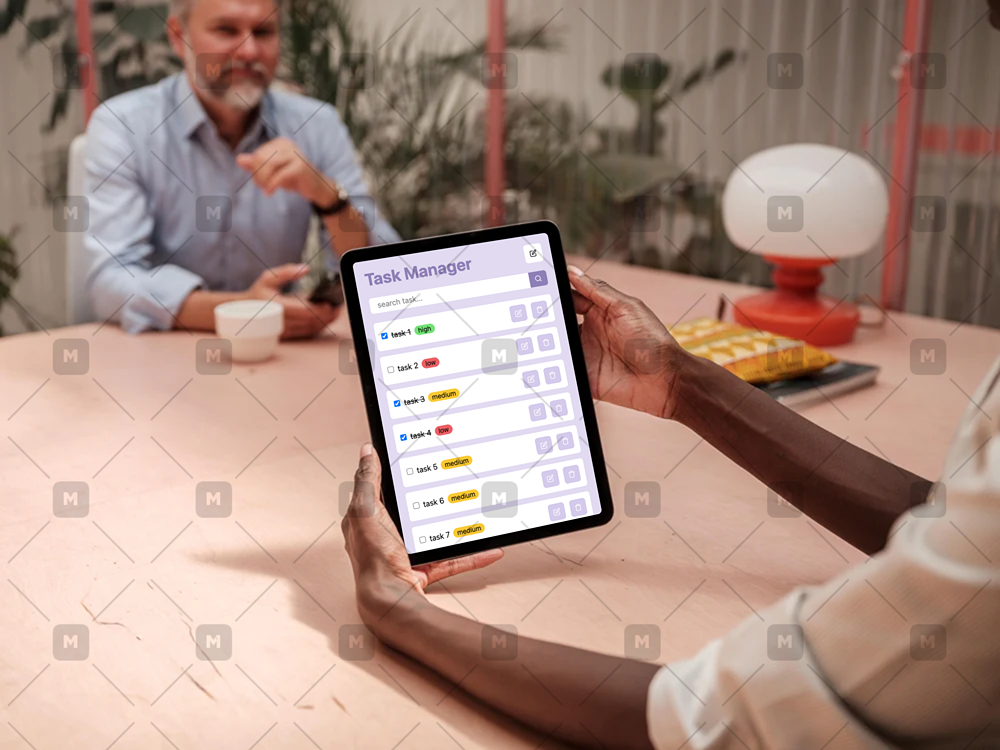
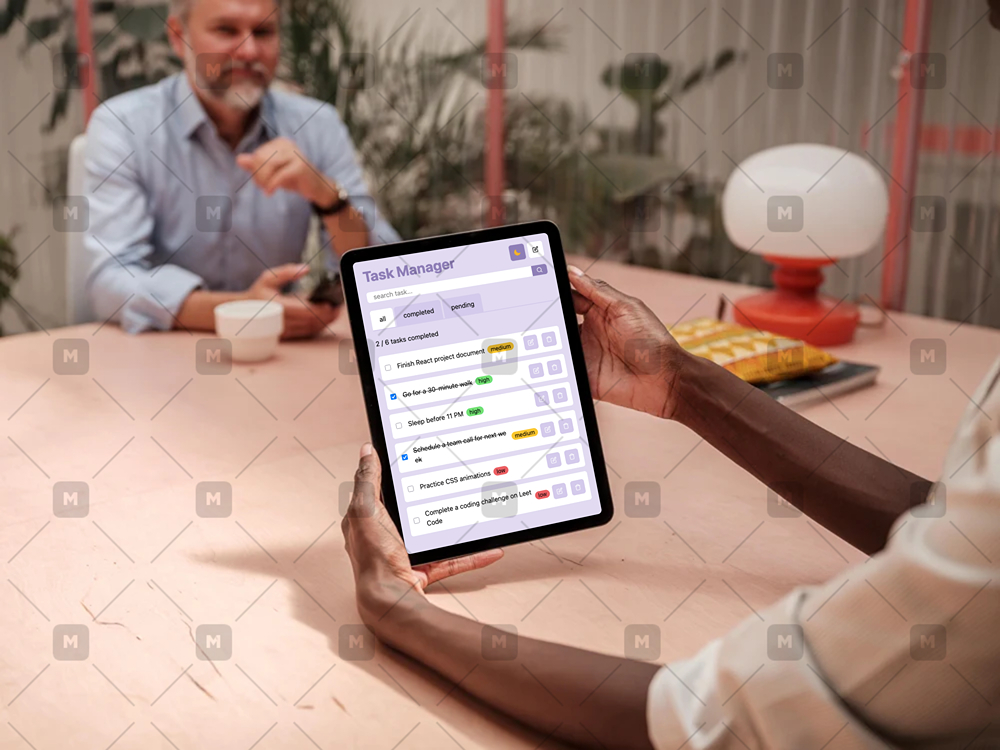
add category

Changed region(s): [[0.341, 0.3067, 0.589, 0.736]]

diff --git a/src/components/Todo.jsx b/src/components/Todo.jsx
@@ -13,11 +13,22 @@ export default function Todo() {
   const { tasks } = useTasksContext();
   const { changeTheme, state } = useAppContext();
   const [query, setQuery] = useState("");
+  const [activeTab, setActiveTab] = useState("all");
   const results = filterTasks(query, tasks);
+
+  const tabs = [
+    { id: "all", label: "all", filter: () => true },
+    { id: "completed", label: "completed", filter: (t) => t.completed },
+    { id: "pending", label: "pending", filter: (t) => !t.completed },
+  ];
+
+  const activeFilter = tabs.find((tab) => tab.id === activeTab).filter;
+  const filterResults = results.filter(activeFilter);
 
   return (
     <>
       <div className="backdrop-filter-sm bg-white/30 p-5 md:rounded-lg sm:w-md w-full gap-y-5 flex flex-col">
+        {/* header  */}
         <div className="flex items-center sm:justify-between gap-x-2">
           <h3 className="text-4xl capitalize text-secondary dark:text-white font-bold">
             task manager
@@ -36,19 +47,41 @@ export default function Todo() {
           </button>
           <NewTask tasks={results} />
         </div>
+
+        {/* search  */}
         <SearchBar query={query} setQuery={setQuery} />
-        {results.length !== 0 && (
+
+        {/* tabs  */}
+        <ul className="flex items-center gap-1 border-b-2 border-primary dark:border-secondary">
+          {tabs.map((tab) => (
+            <li key={tab.id}>
+              <button
+                className={`px-5  py-3 rounded-t-md cursor-pointer  transition-all duraion-500 ${
+                  activeTab === tab.id
+                    ? "bg-white"
+                    : "bg-primary dark:bg-secondary dark:text-white hover:bg-primary/50"
+                }`}
+                onClick={() => setActiveTab(tab.id)}
+              >
+                {tab.label}
+              </button>
+            </li>
+          ))}
+        </ul>
+
+        {/* task list  */}
+        {filterResults.length !== 0 && (
           <span>
-            {results.filter((result) => result.completed).length} / {results.length}{" "}
-            tasks completed
+            {filterResults.filter((result) => result.completed).length} /{" "}
+            {filterResults.length} tasks completed
           </span>
         )}
         {tasks.length === 0 ? (
           <span className="capitalize text-center">no tasks yet</span>
-        ) : results.length === 0 ? (
+        ) : filterResults.length === 0 ? (
           <span className="capitalize text-center">no results found</span>
         ) : (
-          <TodoList tasks={results} />
+          <TodoList tasks={filterResults} />
         )}
 
         <ToastContainer position="top-right" autoClose={2000} />

diff --git a/src/components/Item.jsx b/src/components/Item.jsx
@@ -49,7 +49,7 @@ export default function Item(props) {
   };
 
   return (
-    <div className="bg-white rounded-md p-3 flex items-stratch gap-x-3">
+    <div className="bg-white rounded-md p-3 flex items-center gap-x-3">
       {editable ? (
         <>
           <input
@@ -96,7 +96,7 @@ export default function Item(props) {
               onChange={() => handleToggle(task.id)}
               checked={task.completed}
             />
-            {task.name}
+            <span className="line-clamp-2 break-all">{task.name}</span>
           </label>
           <span
             className={`px-2  text-sm rounded-full ${
